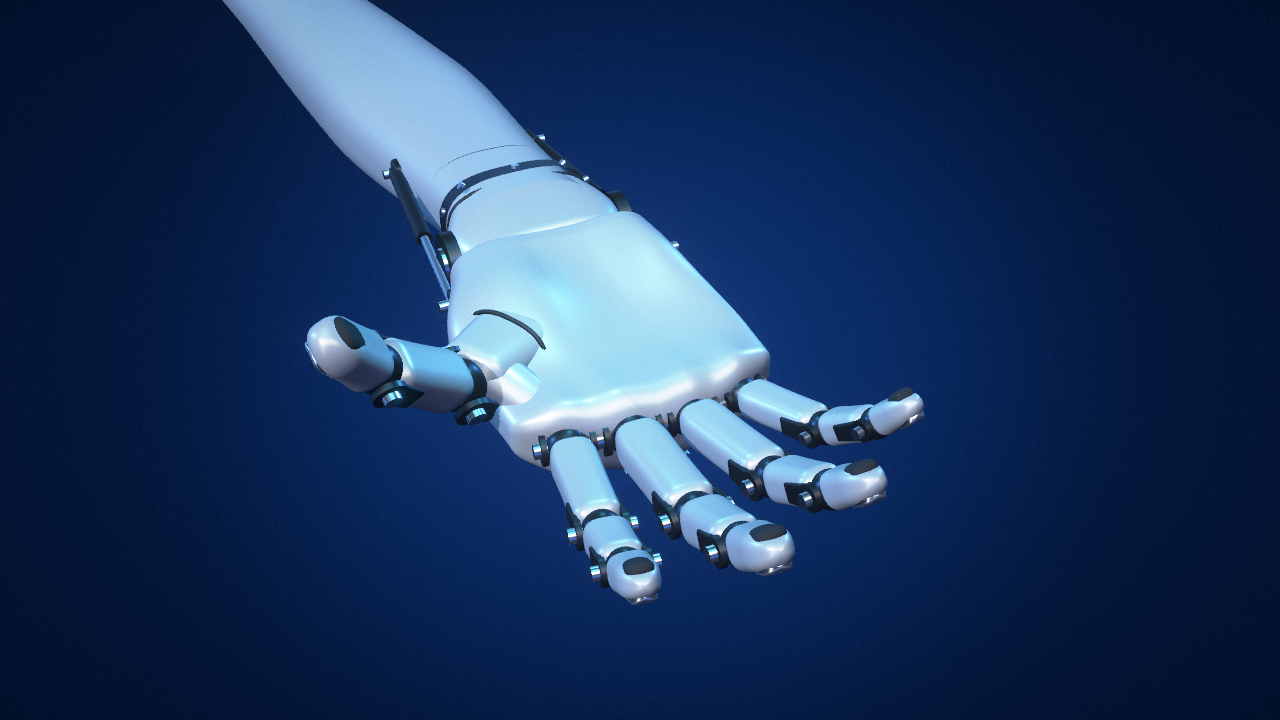
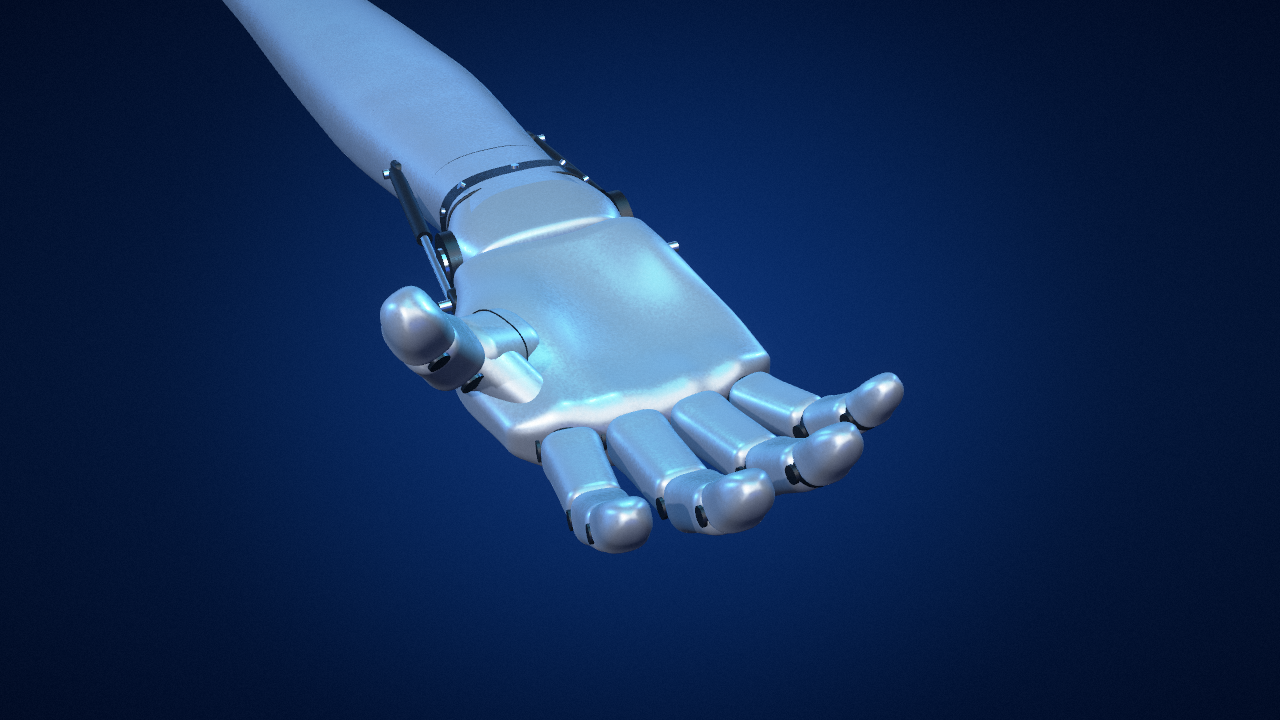
AI Hand Cube: silver-grey satin metal hand, shorter chunkier thumb rising from mid-palm
Claude-Session: https://claude.ai/code/session_01HnFUMBg6Pb1yqZEzGs1UYY

Changed region(s): [[0.1562, 0.0, 0.7188, 0.8556]]

diff --git a/ai-hand-cube/src/scene/hand.ts b/ai-hand-cube/src/scene/hand.ts
@@ -230,8 +230,8 @@ export const buildHand = (mats: HandMaterials): HandRig => {
   // base joint; then 2 segments. The thumb lies roughly in the palm plane,
   // angled ~40deg away from the index finger, pad turned toward the fingers.
   const thenarDir = new THREE.Group();
-  thenarDir.position.set(-0.3, 0.03, 0.06);
-  thenarDir.rotation.set(-14 * DEG, -72 * DEG, -6 * DEG, "YXZ");
+  thenarDir.position.set(-0.3, 0.04, 0.0);
+  thenarDir.rotation.set(-26 * DEG, -66 * DEG, -6 * DEG, "YXZ");
   palm.add(thenarDir);
   const thenarLen = 0.34;
   thenarDir.add(
@@ -244,7 +244,7 @@ export const buildHand = (mats: HandMaterials): HandRig => {
         nBottom: 2.4,
         capStart: 0.1,
         capEnd: 0.06,
-        section: (t) => ({ w: lerp(0.32, 0.2, t), h: lerp(0.26, 0.17, t) }),
+        section: (t) => ({ w: lerp(0.34, 0.25, t), h: lerp(0.28, 0.22, t) }),
       }),
       mats.shell,
     ),
@@ -252,16 +252,16 @@ export const buildHand = (mats: HandMaterials): HandRig => {
   // real part break where the thenar housing meets the palm: graphite gasket
   const gasket: THREE.Vector3[] = [];
   for (let i = 0; i < 40; i++) {
-    const p = sectionPoint({ w: 0.29, h: 0.235 }, (i / 40) * Math.PI * 2, 2.6, 2.4, 1.01);
+    const p = sectionPoint({ w: 0.31, h: 0.255 }, (i / 40) * Math.PI * 2, 2.6, 2.4, 1.01);
     gasket.push(new THREE.Vector3(p.x, p.y, 0.16));
   }
   thenarDir.add(tube(gasket, 0.003, mats.seam, true, 96));
   const thumbBase = new THREE.Group();
   thumbBase.position.z = thenarLen + 0.02;
-  thumbBase.rotation.set(-10 * DEG, 18 * DEG, -20 * DEG, "YXZ");
+  thumbBase.rotation.set(-20 * DEG, 14 * DEG, -20 * DEG, "YXZ");
   thenarDir.add(thumbBase);
-  // thumb: nearly as thick as a finger, shorter than the index finger
-  const thumbJoints = buildChain(thumbBase, [0.38, 0.3], 0.205, 0.185);
+  // thumb: shorter than the fingers but the chunkiest digit
+  const thumbJoints = buildChain(thumbBase, [0.35, 0.27], 0.235, 0.215);
   chains.unshift({ joints: thumbJoints, relaxed: [8 * DEG, 12 * DEG] });
   // web between the thumb housing and the index knuckle: a low sculpted
   // shell so the thumb visibly belongs to the palm

diff --git a/ai-hand-cube/src/AIHandCube.tsx b/ai-hand-cube/src/AIHandCube.tsx
@@ -33,7 +33,7 @@ export const SCENE = {
   handYaw: 2 * DEG, // fingers point toward the viewer
   handRoll: -4 * DEG,
   handScale: 1.0,
-  wristBend: -42 * DEG, // forearm runs straight away from camera, hidden behind palm and cube
+  wristBend: -54 * DEG, // forearm runs straight away from camera, hidden behind palm and cube
   cubeWorld: new THREE.Vector3(0, 0, 0),
   // CoC = K * max(0, |1 - focus/z| - band): the cube (+-0.4 around its centre) stays sharp
   dof: { nearK: 0.17, farK: 0.05, maxCoc: 0.02, band: 0.095 },
@@ -77,14 +77,14 @@ const Scene: React.FC<{ v: Version; refs: RenderRefs }> = ({ v, refs }) => {
     const env = buildEnvironment(gl, p);
     const handMats = buildHandMaterials(p, env);
     // in the scene the hand is lit mostly by the cube: dimmer reflections
-    (handMats.shell as THREE.MeshPhysicalMaterial).envMapIntensity = 0.45;
+    (handMats.shell as THREE.MeshPhysicalMaterial).envMapIntensity = 1.0;
     (handMats.metal as THREE.MeshPhysicalMaterial).envMapIntensity = 0.6;
     const hand = buildHand(handMats);
     const bg = buildBackground();
     bg.material.uniforms.uBase.value.set(p.background);
     bg.material.uniforms.uGlow.value.set(p.glow);
     const lights = buildLights(p);
-    lights.key.intensity *= 0.32; // the hand sits in shadow under the cube
+    lights.key.intensity *= 0.6; // the hand sits partly in shadow under the cube
     lights.rimL.intensity *= 0.7;
     lights.rimR.intensity *= 0.7;
     const cube = buildCube(p, env, v.cubeText);

diff --git a/ai-hand-cube/src/versions.ts b/ai-hand-cube/src/versions.ts
@@ -36,7 +36,7 @@ const BLUE: Palette = {
   circuit: "#5AD8FF",
   text: "#DFF8FF",
   hud: "#5A9AE8",
-  handBase: "#E8ECF2",
+  handBase: "#C6CCD5", // light silver-grey (between the brief's #E8ECF2 and the reference's grey metal)
   handJoint: "#3A3E46",
   rim: "#4FA8FF",
   key: "#DCE8FF",
@@ -50,7 +50,7 @@ const GOLD: Palette = {
   circuit: "#FFC870",
   text: "#FFF4E2",
   hud: "#E8A04A",
-  handBase: "#F1E8DA",
+  handBase: "#D6CBB8", // silver-champagne
   handJoint: "#3E3830",
   rim: "#FFB860",
   key: "#FFF0DC",

diff --git a/ai-hand-cube/src/scene/materials.ts b/ai-hand-cube/src/scene/materials.ts
@@ -6,8 +6,8 @@ import type { HandMaterials } from "./hand";
 export const buildHandMaterials = (p: Palette, env: THREE.Texture): HandMaterials => {
   const shell = new THREE.MeshPhysicalMaterial({
     color: new THREE.Color(p.handBase),
-    metalness: 0.3,
-    roughness: 0.3,
+    metalness: 0.5,
+    roughness: 0.32,
     clearcoat: 0.12,
     clearcoatRoughness: 0.3,
     envMap: env,
